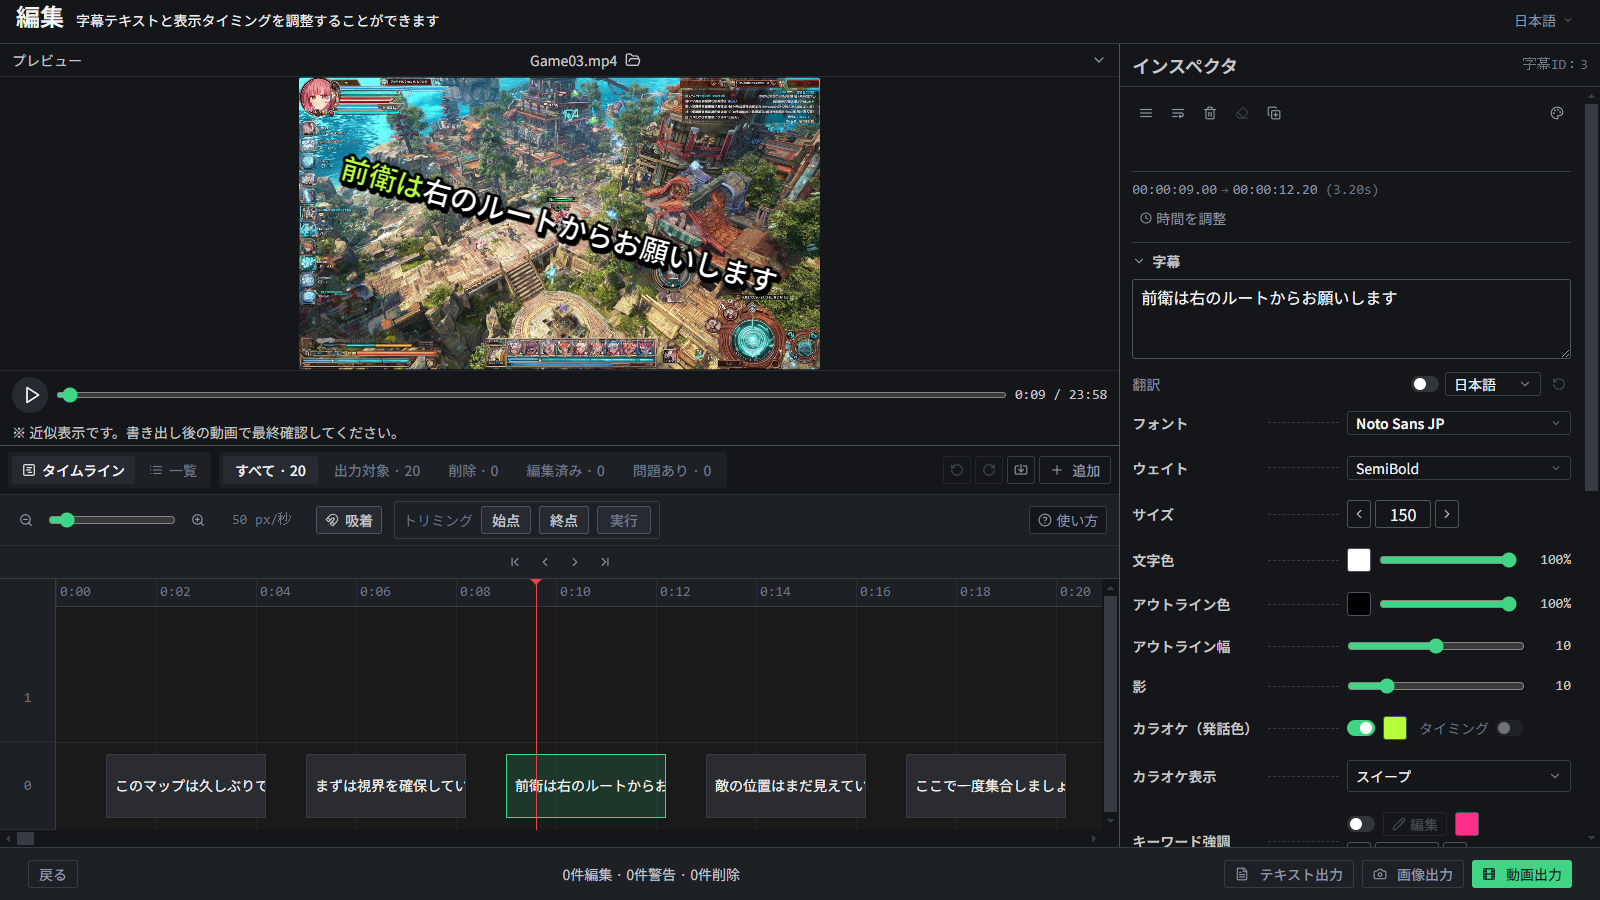
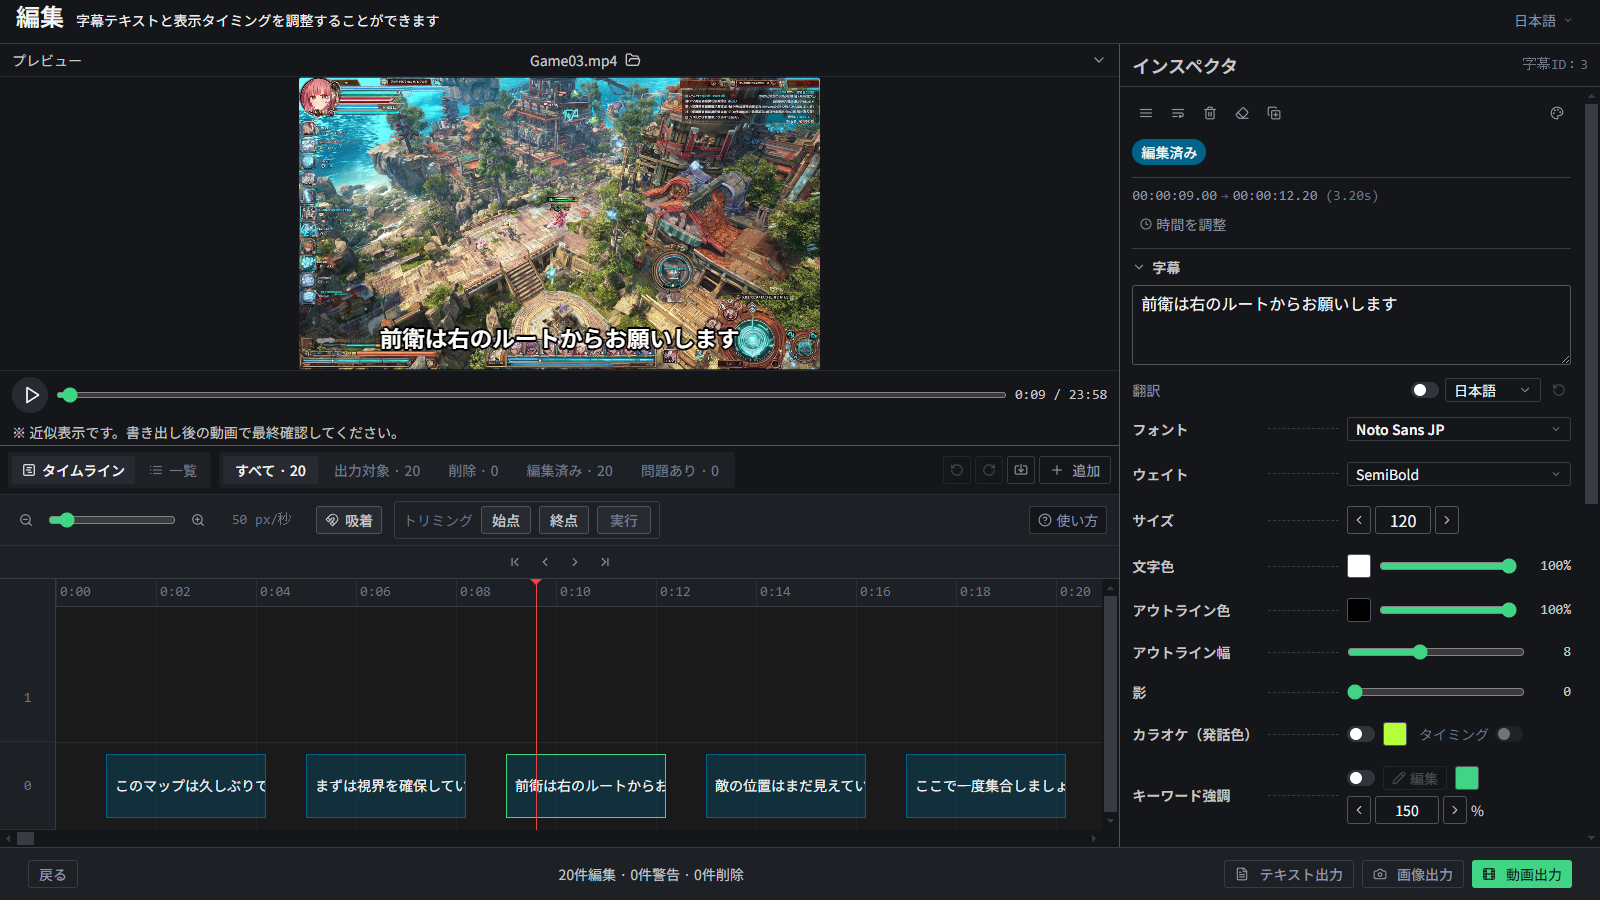
fix(shots,cue-edit): declare the screenshot style, and make unpin actually unpin (REQ-0565)
All seven published screenshots had their subtitles tilted 15 degrees. Nothing
was wrong with the app: `convert` seeds a new project from the machine's
transcriptionDefaults, so the pipeline was reading this developer's settings
and publishing them as the product's look. Same fault as REQ-0516's cli-smoke
assertions — an artefact that assumes machine state.

SITE_STYLE now declares every field that can move a pixel and applies it to
every cue through `edit_cues`, so nothing in settings.json can reach a
screenshot. Proved by perturbation, not by inspection: with the settings set
to rotation 45, size 400, magenta, top-left, uppercase, karaoke on, all seven
shots still come out at rotation 0 / size 120 / centre-bottom. settings.json
was backed up and restored byte-identical (sha256 a00c629c…).

Building that turned up a real defect it was hiding. `edit_cues`'s documented
unpin — `position: {posX: null, posY: null}` — stored the null literally,
while every placement path decides "is this pinned?" with `posX !== undefined`,
which null satisfies. So unpinning produced a cue pinned at (null, null) and
the caption was never drawn. Measured: 3557 near-white pixels in the preview
before the unpin, 204 after. `applyCueEdit` now stores undefined when clearing.

REQ-0554's test asserted that unpin input was ACCEPTED and never asked what it
STORED, which is why this shipped. The new test checks the consequence the
[…]

diff --git a/tests/unit/cue-edit-req-0554.test.ts b/tests/unit/cue-edit-req-0554.test.ts
@@ -405,3 +405,69 @@ describe('REQ-0554 §1-3 — warnings for combinations that store but do not sho
     expect(out.filter((w) => w.code === 'BACKGROUND_NEEDS_OUTLINE')).toHaveLength(1)
   })
 })
+
+/**
+ * ★ REQ-0565 — unpinning must actually unpin.
+ *
+ * REQ-0554 accepted `{posX: null, posY: null}` as the documented way to remove
+ * a drag-pin, and this file's own test proved the input was ACCEPTED. It never
+ * asked what got STORED, and what got stored was `null`.
+ *
+ * Every placement path in the app decides "is this cue pinned?" with
+ * `posX !== undefined`. `null` passes that test. So the documented unpin
+ * produced a cue pinned at (null, null), which is laid out at no coordinates —
+ * the caption silently disappeared from the render.
+ *
+ * The screenshot pipeline found it by unpinning every cue for a clean look and
+ * ending up with seven screenshots that had no subtitles in them.
+ */
+describe('REQ-0565 — clearing an optional field stores undefined, not null', () => {
+  /** The predicate every placement path uses (cue-placement, line-spacing, stack-offsets). */
+  const isPinned = (e: SubtitleEntry): boolean => e.posX !== undefined && e.posY !== undefined
+
+  it('★ unpinning leaves the cue genuinely UNPINNED', () => {
+    const pinned = cue({ posX: 500, posY: 300 })
+    expect(isPinned(pinned), 'fixture must start pinned').toBe(true)
+
+    const { entry } = applyCueEdit(pinned, {
+      select: { id: 'c-1' },
+      style: { position: { posX: null, posY: null } },
+    })
+
+    expect(entry.posX).toBeUndefined()
+    expect(entry.posY).toBeUndefined()
+    // The assertion that actually matters: what the renderer concludes.
+    expect(isPinned(entry), 'an unpinned cue must not read as pinned').toBe(false)
+  })
+
+  it('★ negative control: storing the null literally would read as PINNED', () => {
+    // This is the pre-fix behaviour, reproduced inline — no `git checkout`.
+    const asNull = { ...cue(), posX: null, posY: null } as unknown as SubtitleEntry
+    expect(isPinned(asNull), 'null must be why the bug happened').toBe(true)
+  })
+
+  it('unpinning is reported as a change', () => {
+    const { changed } = applyCueEdit(cue({ posX: 1, posY: 2 }), {
+      select: { id: 'c-1' },
+      style: { position: { posX: null, posY: null } },
+    })
+    expect(changed).toContain('style.position.posX')
+  })
+
+  it('unpinning an already-unpinned cue is a no-op', () => {
+    const { changed } = applyCueEdit(cue(), {
+      select: { id: 'c-1' },
+      style: { position: { posX: null, posY: null } },
+    })
+    expect(changed).toEqual([])
+  })
+
+  it('a real coordinate still pins', () => {
+    const { entry } = applyCueEdit(cue(), {
+      select: { id: 'c-1' },
+      style: { position: { posX: 120, posY: 340 } },
+    })
+    expect(isPinned(entry)).toBe(true)
+    expect([entry.posX, entry.posY]).toEqual([120, 340])
+  })
+})

diff --git a/src/shared/cue-edit.ts b/src/shared/cue-edit.ts
@@ -269,9 +269,25 @@ export function applyCueEdit(entry: SubtitleEntry, edit: CueEdit): ApplyResult {
   const changed: string[] = []
 
   const set = (path: string, field: string, value: unknown): void => {
+    /*
+     * ★ REQ-0565 — `null` means "clear this optional field", and clearing has
+     * to store `undefined`, not `null`.
+     *
+     * Only `posX`/`posY` accept null today: both null is the documented way to
+     * remove a drag-pin. REQ-0554 stored the null literally, and every render
+     * path asks `posX !== undefined` to decide whether a cue is pinned — which
+     * `null` satisfies. So "unpin" produced a cue pinned at (null, null), and
+     * the caption was laid out at no coordinates and simply never appeared.
+     *
+     * It went unnoticed because the REQ-0554 test asserted the input was
+     * ACCEPTED, and the smoke never rendered an unpinned cue. It surfaced when
+     * the screenshot pipeline unpinned every cue for a clean look and the
+     * captions vanished from all seven shots.
+     */
+    const stored = value === null ? undefined : value
     const current = (next as unknown as Record<string, unknown>)[field]
-    if (sameValue(current, value)) return
-    ;(next as unknown as Record<string, unknown>)[field] = value
+    if (sameValue(current, stored)) return
+    ;(next as unknown as Record<string, unknown>)[field] = stored
     changed.push(path)
   }
 
